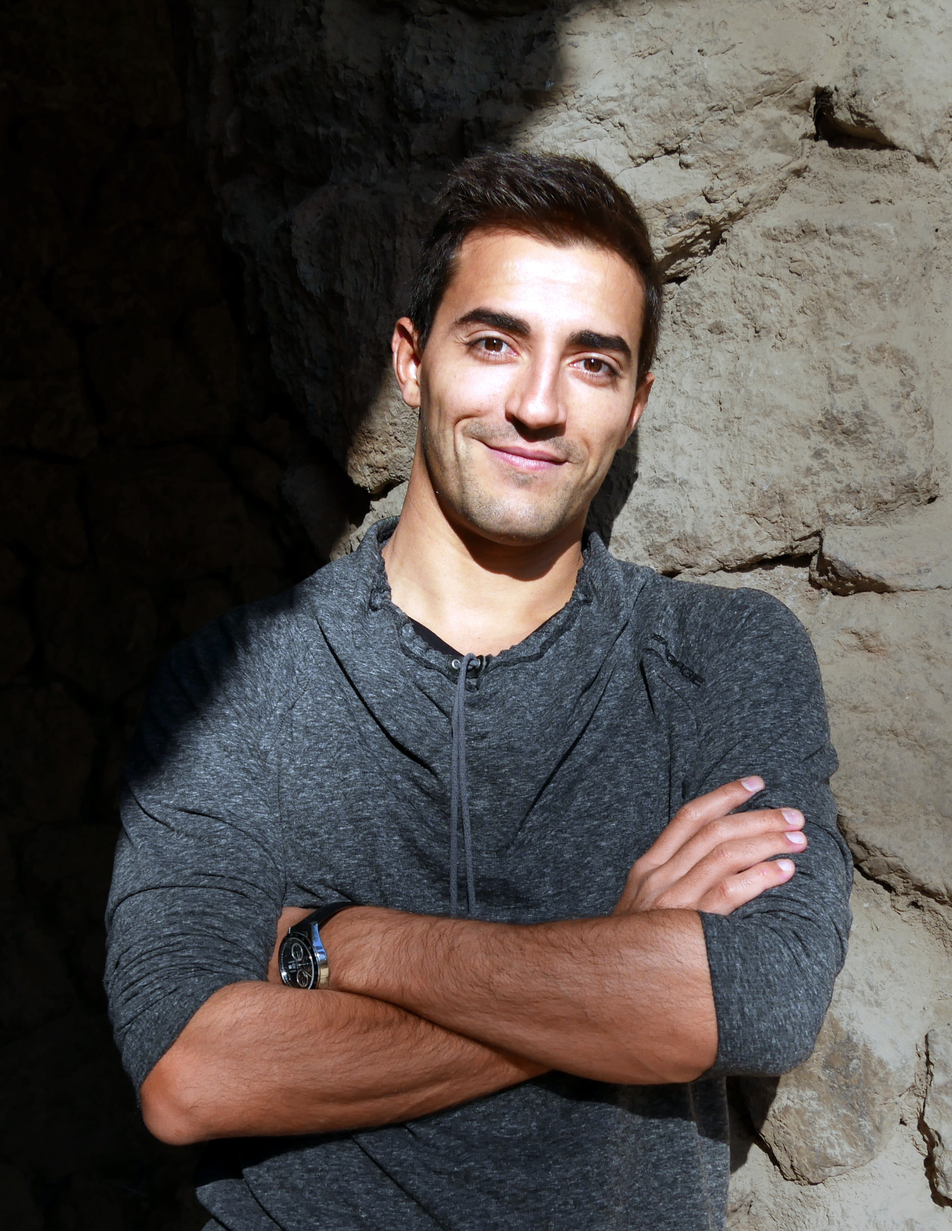
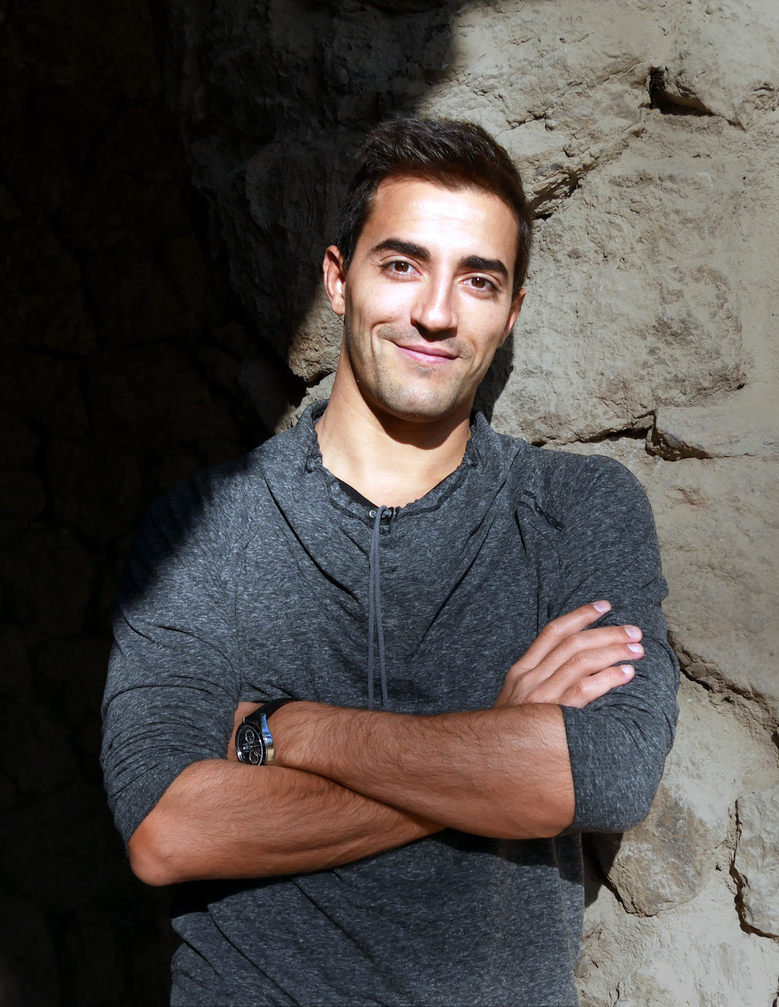
optimized size of hero images

diff --git a/src/app/home/home.component.html b/src/app/home/home.component.html
@@ -4,7 +4,7 @@
   <section id="hero-section">
     <div class="detail">
         <div class="detail-name">
-            <div class="small-picture" appLQImgPlaceholder style="background-image: url('/assets/hero-photo.jpg')"></div>
+            <div class="small-picture" appLQImgPlaceholder style="background-image: url('/assets/hero-photo-mobile.jpg')"></div>
             <h1>I'm Enrique.</h1>
         </div>
         <p>CEO at TracksCO2, CTO at Narada Robotics. Full-stack engineer interested in emerging technologies. Angular & Ionic evangelist. Blockchain lover.</p>
